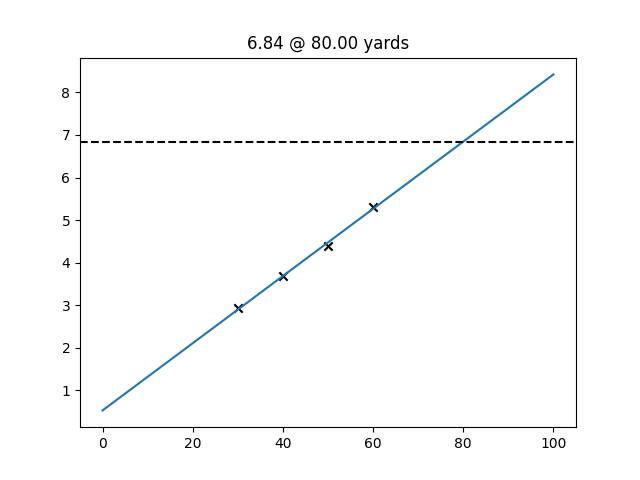
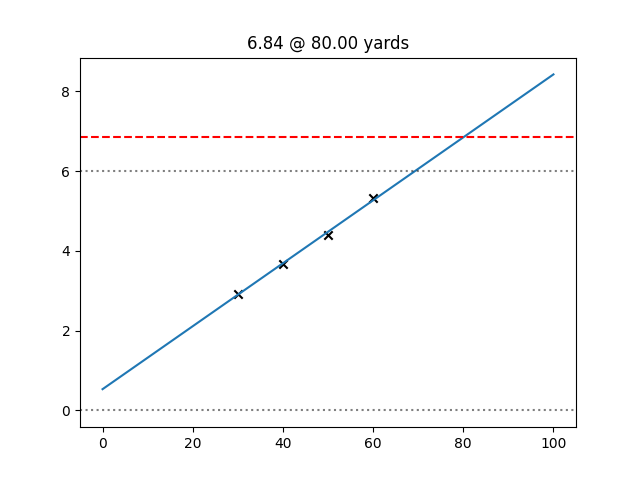
sight markings

diff --git a/archery_predictor/sight_markings/plot_sight_markings.py b/archery_predictor/sight_markings/plot_sight_markings.py
@@ -10,15 +10,14 @@ distance_to_predict = 80
 is_metres = 0
 
 # Function to convert metres to yards
-def convert_to_yards(distance, is_metres):
-    if not is_metres: # if yards, no conversion necessary
-        return distance
+def convert_to_yards(distance):
     return distance * 1.09361
 
-distance_to_predict = convert_to_yards(distance_to_predict, is_metres)
+if is_metres:
+    distance_to_predict = convert_to_yards(distance_to_predict)
 
 # Read data from csv
-scope = pd.read_csv(f"sight_marks.csv", header = 0)
+scope = pd.read_csv(f"sight_markings/sight_marks.csv", header = 0)
 distances = scope["distance"]
 sight_markings = scope["sight_marking"]
 
@@ -43,7 +42,13 @@ distance_predicted = model.predict(distance_to_predict)
 # Plot
 plt.scatter(distances, sight_markings, color='k', marker='x')
 plt.plot(ranging, predicted_sight_markings)
-plt.axhline(distance_predicted, color="k", linestyle="dashed")
+plt.axhline(distance_predicted, color="r", linestyle="dashed")
+plt.axhline(0, color="k", linestyle=":", alpha=0.5)
+plt.axhline(6, color="k", linestyle=":", alpha=0.5)
+
+print(f"At 0yds: {model.intercept_[0]:.2f}")
+print(f"Delta per 10yds: {model.coef_[0][0] * 10:.2f}")
+print(f"At {distance_to_predict[0][0]:.2f}yds: {distance_predicted[0][0]:.2f}")
 
 plt.title(f"{distance_predicted[0][0]:.2f} @ {distance_to_predict[0][0]:.2f} yards")
-plt.savefig("sight_markings.png")
+plt.savefig("sight_markings/sight_markings.png")
